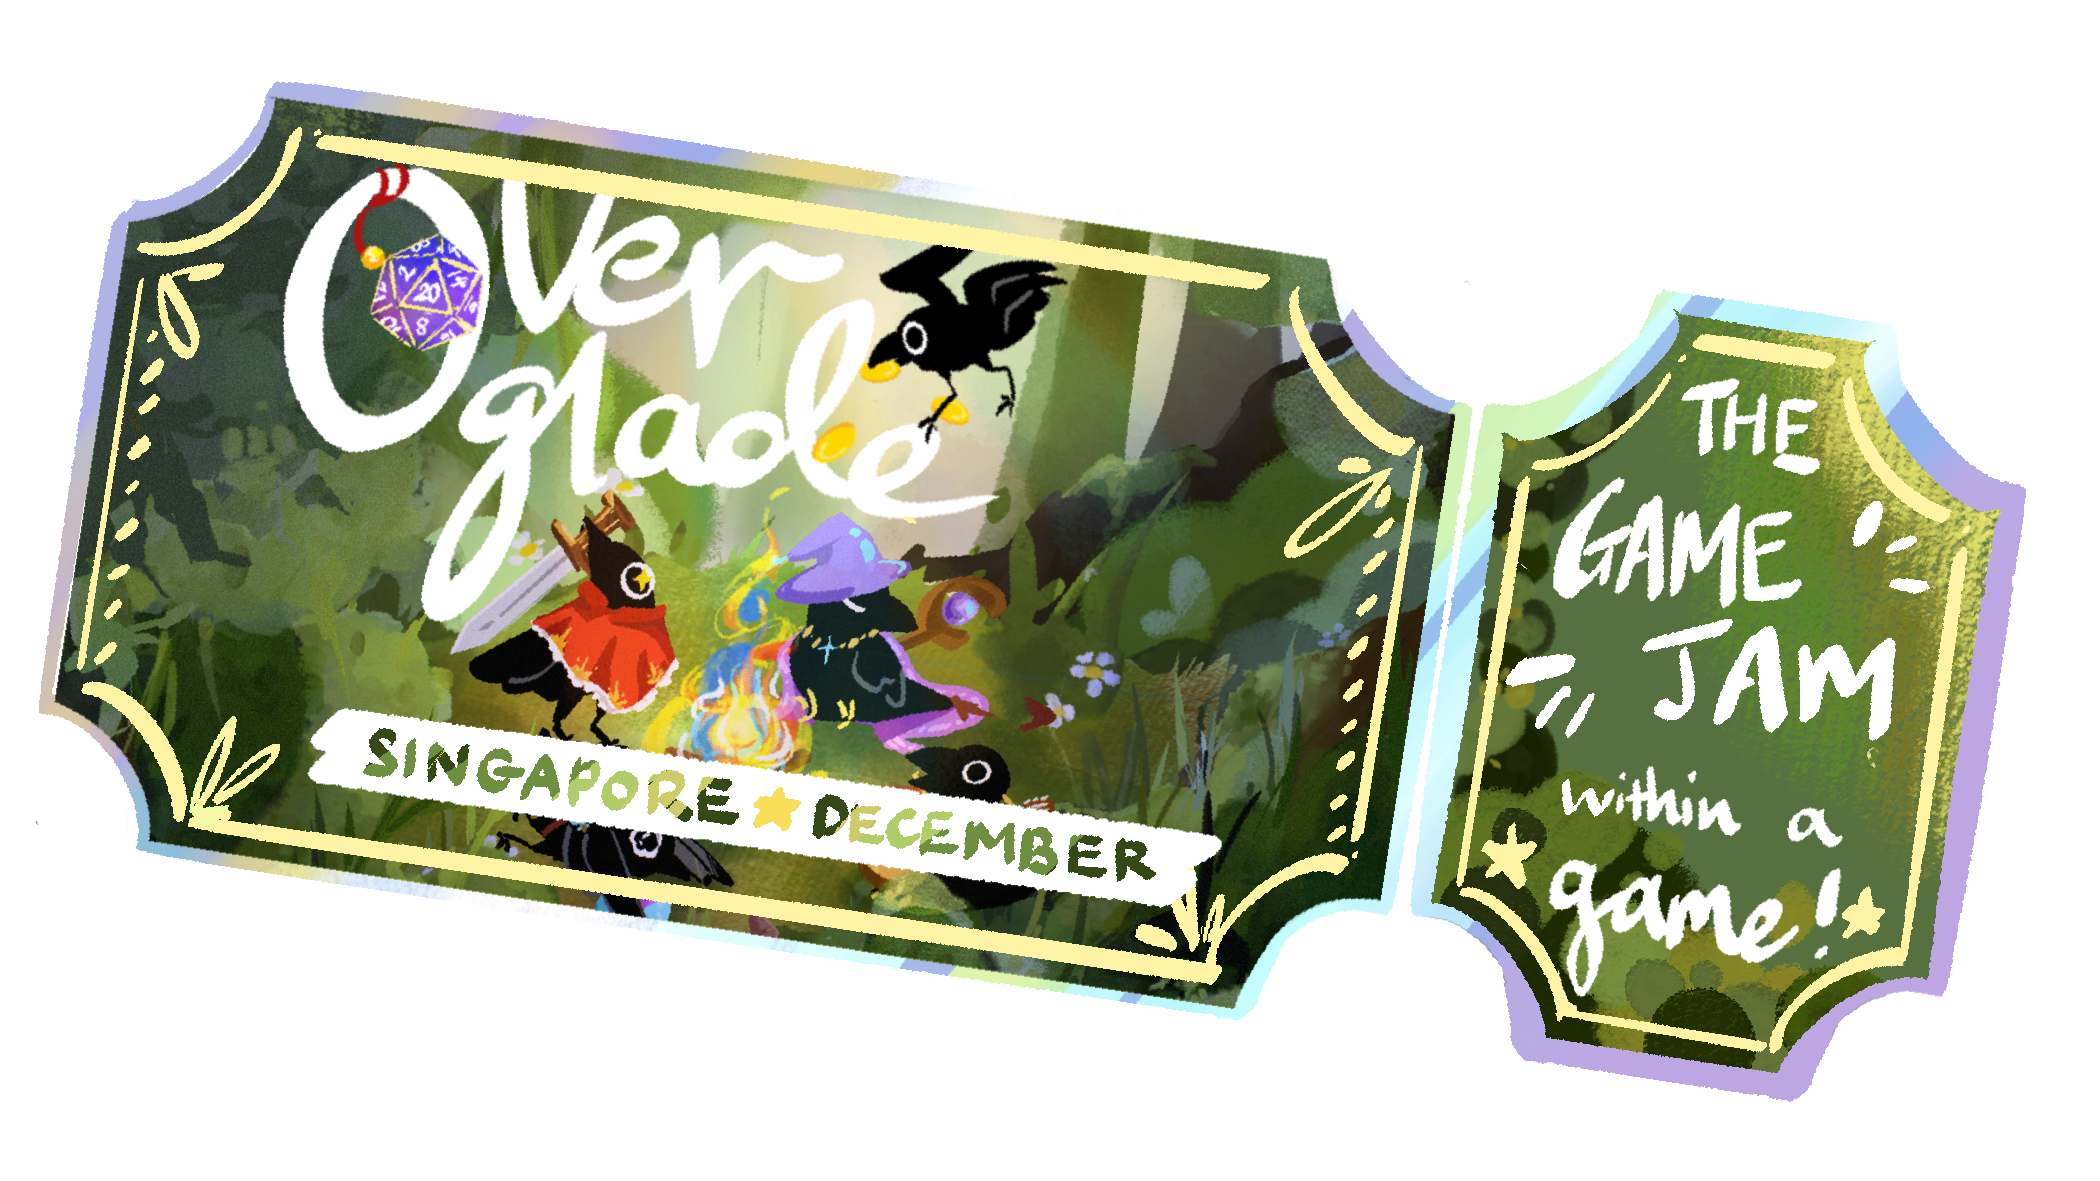
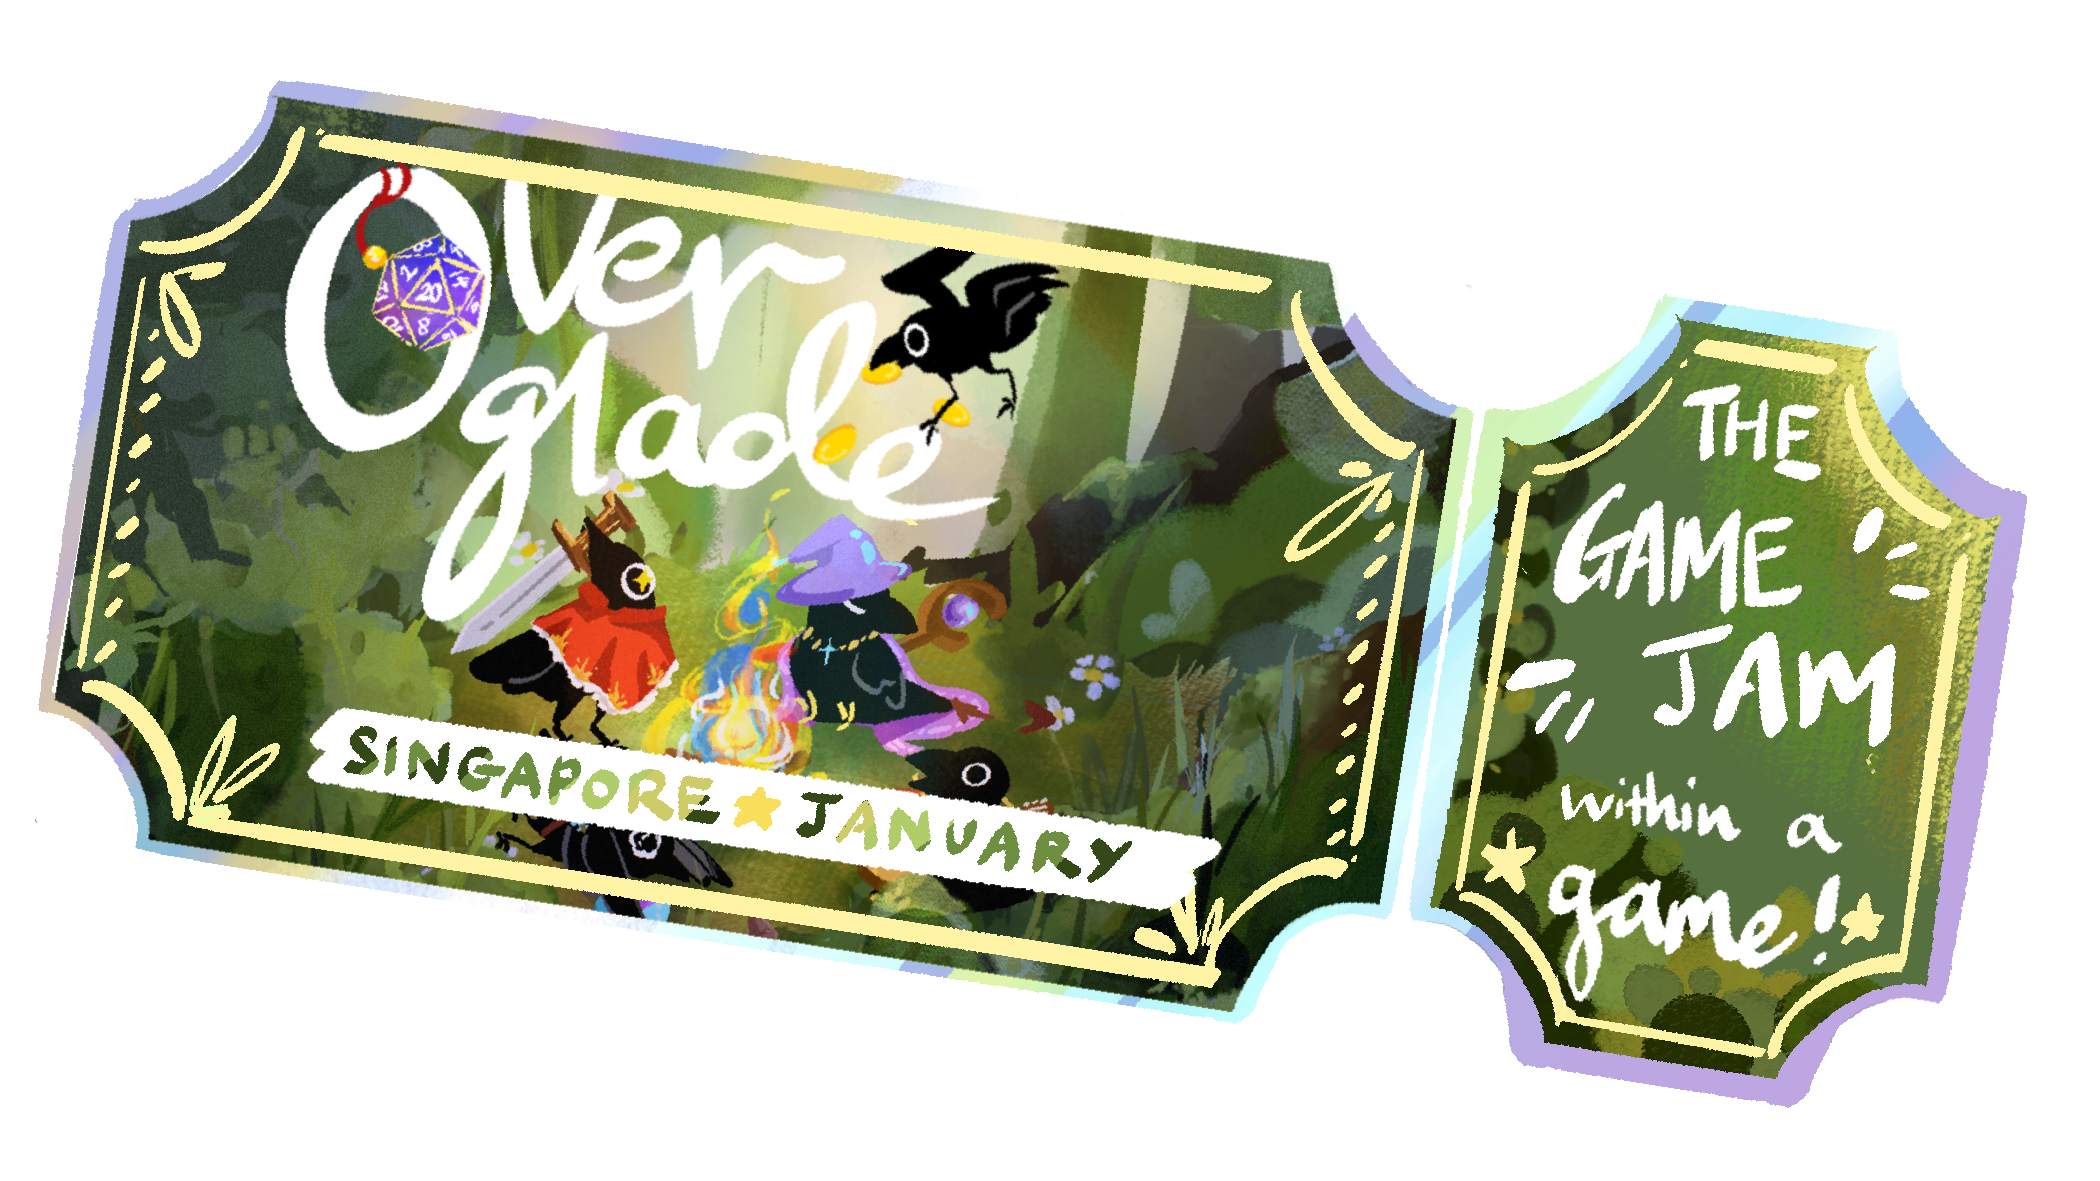
update overglade info

diff --git a/src/routes/+page.svelte b/src/routes/+page.svelte
@@ -77,7 +77,7 @@
 		},
 		{
 			question: "What is Overglade?",
-			answer: "Overglade is a game jam that is happening in Singapore in December. You can purchase a ticket to Overglade in the Milkyway shop (which includes all accommodation and food), and you can also purchase additional flight stipends. For more information, visit the Overglade website!"
+			answer: "Overglade is a game jam in a game that is happening in Singapore in January. You can purchase a ticket to Overglade in the Milkyway shop (which includes all accommodation and food), and you can also purchase additional flight stipends. For more information, visit the Overglade website at overglade.hackclub.com!"
 		},
 		{
 			question: "Am I eligible to participate?",
